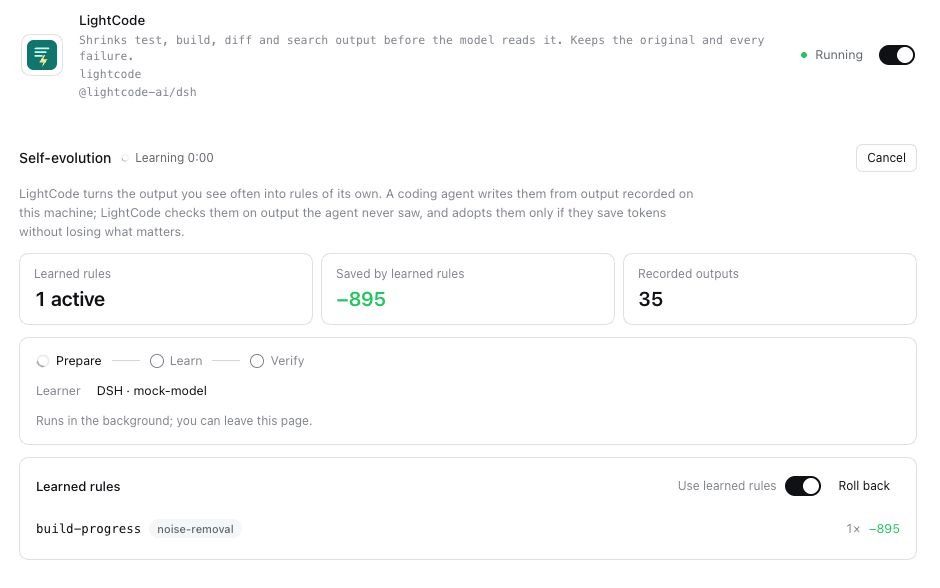
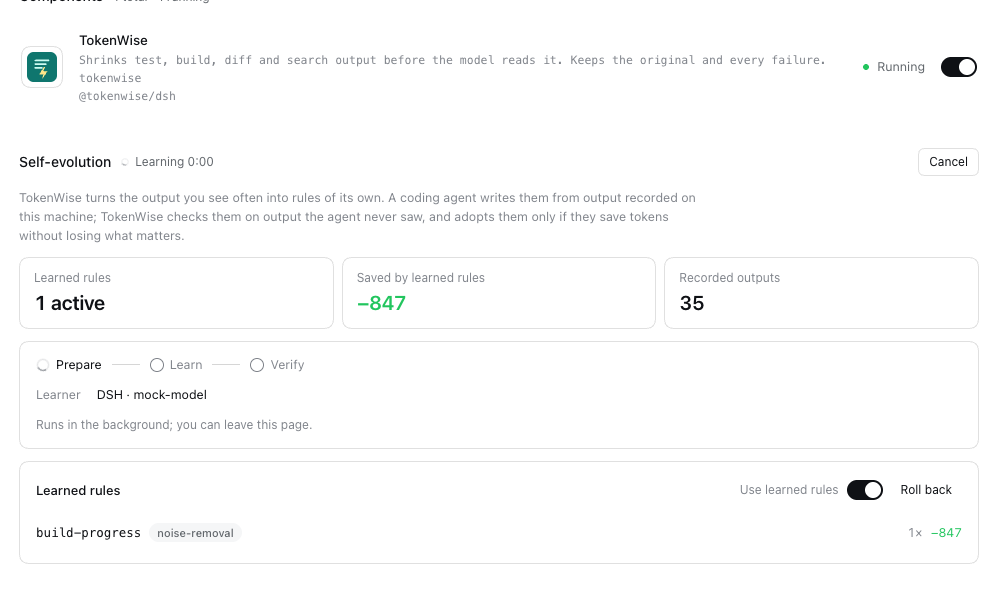
TokenWise in the marketplaces and the screenshots
Marketplace entries say "TokenWise for <agent>". The DeepSeek Harness
screenshots are retaken from the web end-to-end run and show TokenWise;
the hand-made pi panel images, which still showed the old name, are gone
from the READMEs.

diff --git a/README.md b/README.md
@@ -189,15 +189,13 @@ agent takes a thin adapter over the same core:
 filters and the commands worth learning from. Press `l` to learn; `r` rolls
 an adoption back.
 
-<p align="center"><img src="docs/assets/screenshots/pi-panel-adopted.png" alt="pi /tokenwise panel after a filter was adopted" width="820"></p>
-
 **DeepSeek Harness** (Web and Desktop) — the plugin's page has **Learn now**,
 live progress, the learned filters with a switch and **Roll back**, and a
 toast when there is new output worth learning from.
 
 <p align="center"><img src="docs/assets/screenshots/dsh-self-evolution.png" alt="DeepSeek Harness plugin page: a learned filter adopted" width="900"></p>
 
-Screenshots come from the end-to-end suite, which drives the real apps with
+The screenshot comes from the end-to-end suite, which drives the real app with
 a scripted model.
 
 </details>

diff --git a/docs/zh/README.md b/docs/zh/README.md
@@ -141,8 +141,6 @@ TokenWise 能做到多深，取决于每个 agent 允许插件做什么。在其
 
 **pi**：`/tokenwise` 打开一个面板，显示本次会话省了多少、学到的过滤规则，以及值得学习的命令。按 `l` 开始学习，按 `r` 回滚一次采用。
 
-<p align="center"><img src="../assets/screenshots/pi-panel-adopted.png" alt="pi 的 /tokenwise 面板，已采用一条过滤规则" width="820"></p>
-
 **DeepSeek Harness**（Web 和桌面版）：插件页面上有 **Learn now**、实时进度、带开关和 **Roll back** 的已学规则列表；有值得学习的新输出时会弹出提示。
 
 <p align="center"><img src="../assets/screenshots/dsh-self-evolution.png" alt="DeepSeek Harness 插件页面：已采用一条过滤规则" width="900"></p>
